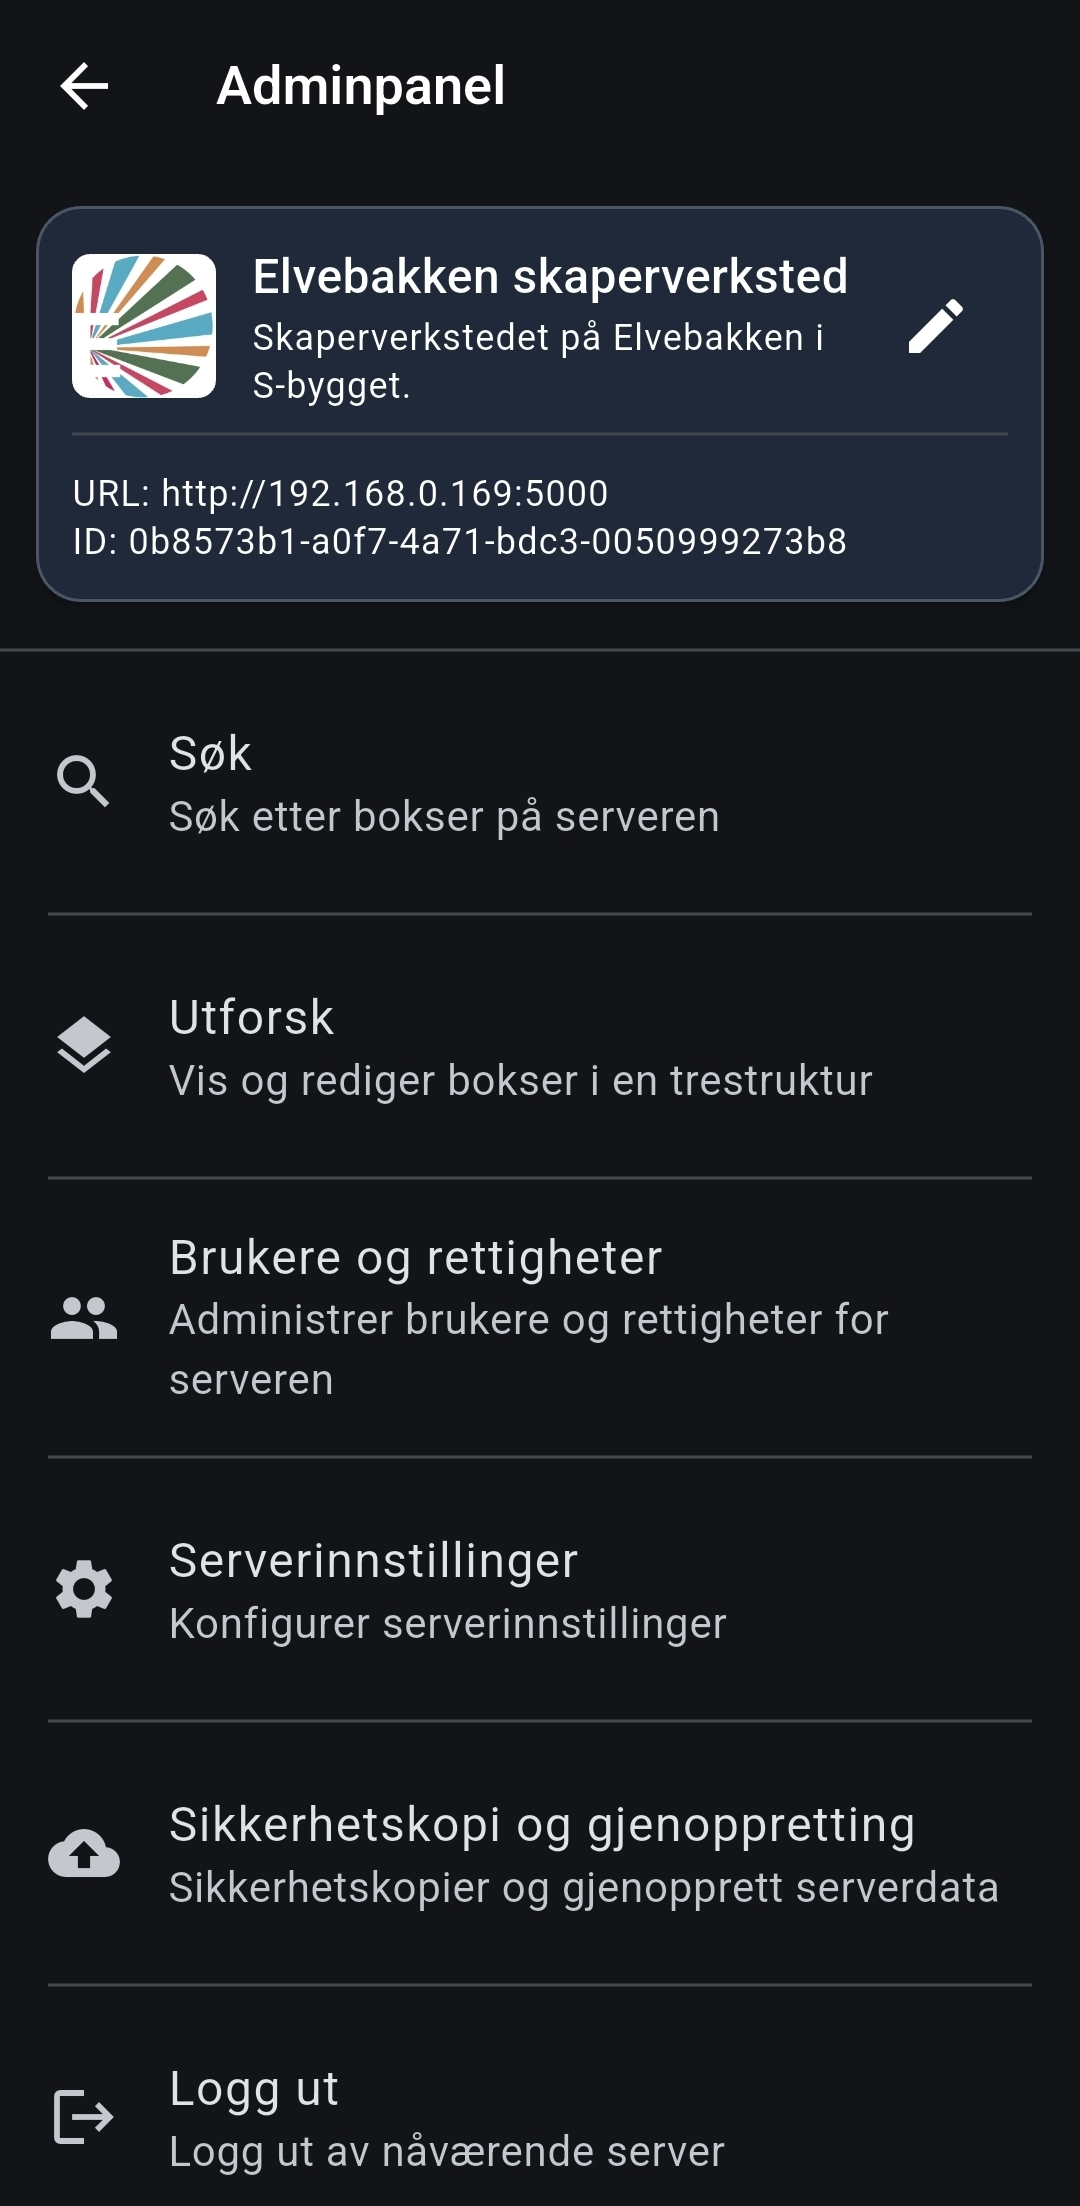
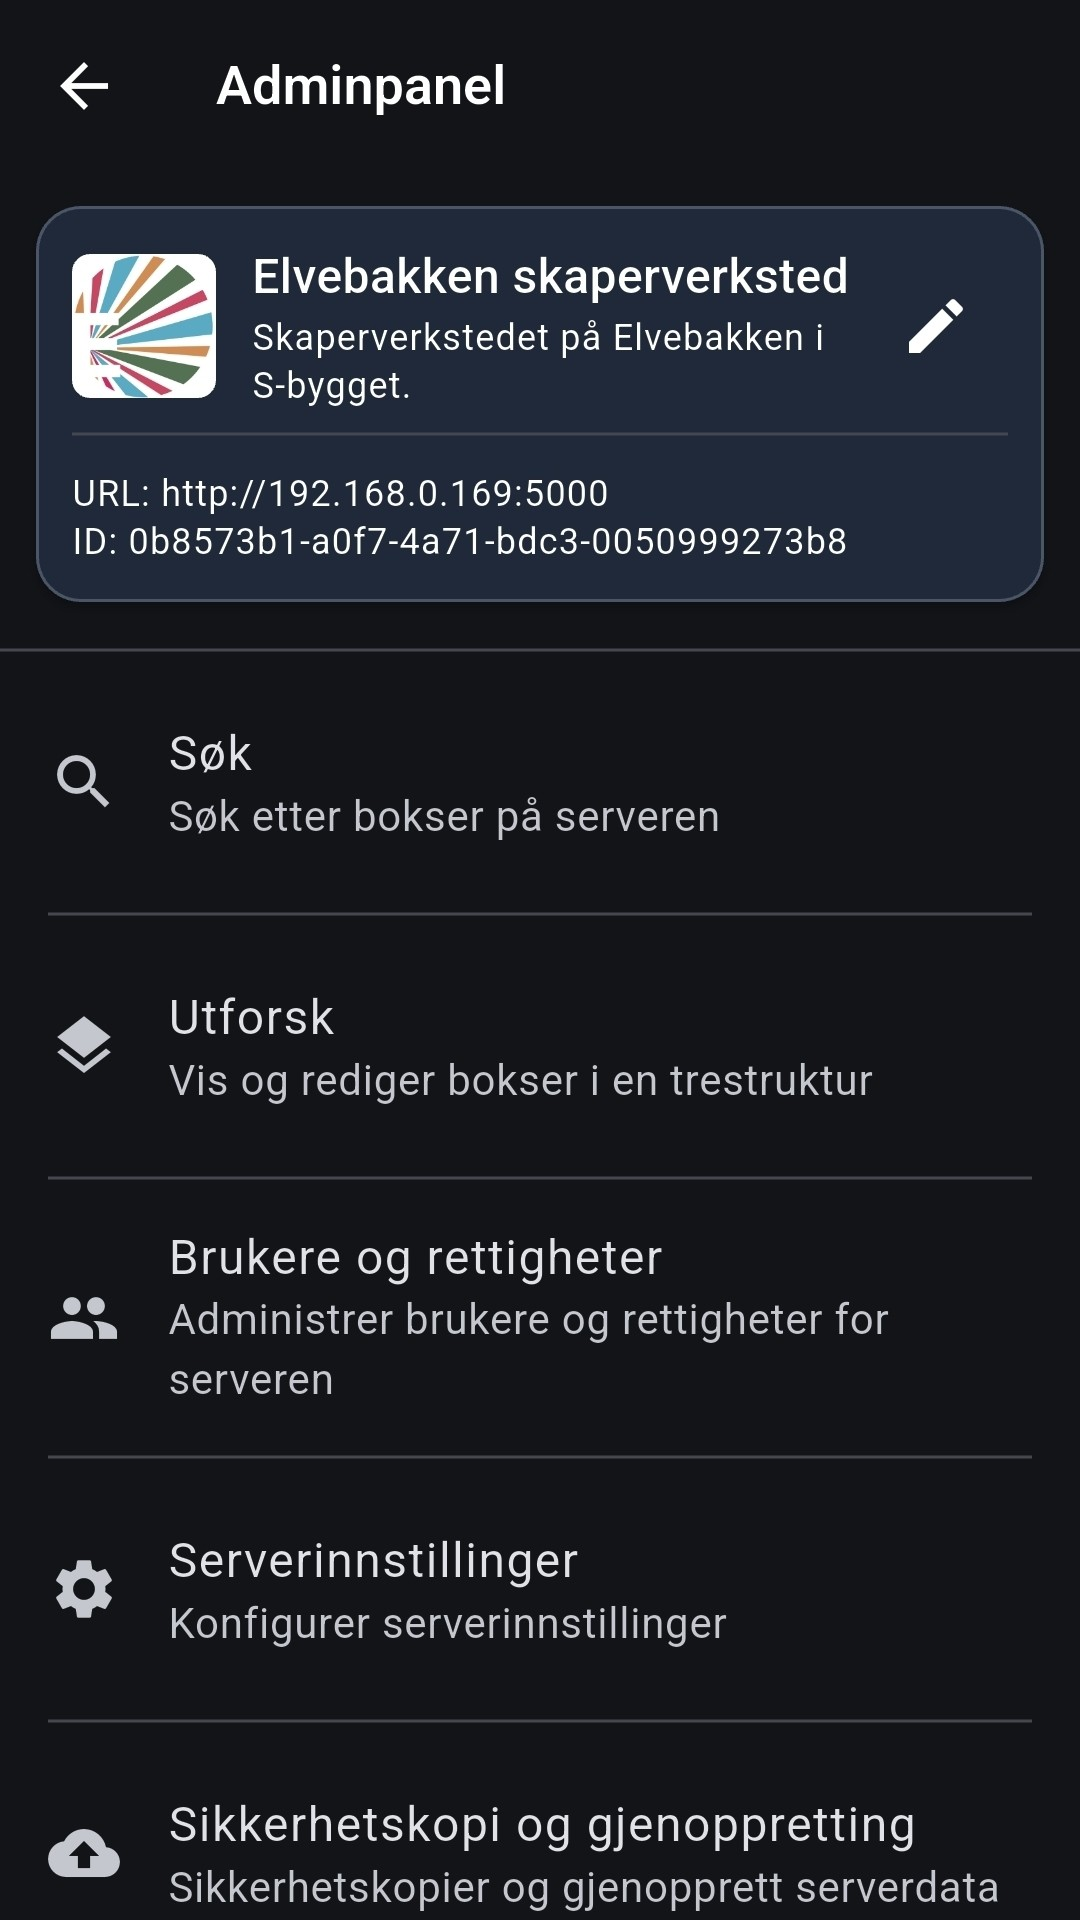
La til funksjoner del

diff --git a/index.html b/index.html
@@ -109,6 +109,88 @@
                 </p>
             </article>
         </section>
+
+        <section class="features" aria-labelledby="features-heading">
+            <div class="features-head">
+                <p class="eyebrow">FUNKSJONER</p>
+                <h2 id="features-heading" class="section-title">Se hva Skapersøk kan gjøre for deg</h2>
+            </div>
+
+            <div class="features-grid">
+                <article class="feature-card">
+                    <div class="feature-copy">
+                        <h3>Enkel bruk 🚀</h3>
+                        <p>Brukere trenger kunn å skanne en QR-kode for å komme i gang.
+                            <br><b>Ingen innstalasjoner, ingen registrering, ingen bogus.</b>
+                        </p>
+                    </div>
+                    <figure class="feature-media" aria-label="Plassholder for bilde av onboarding">
+                        <img src="assets/imgs/demo/qr_demo.gif" alt="QR-kode demo">
+                    </figure>
+                </article>
+
+                <article class="feature-card">
+                    <div class="feature-copy">
+                        <h3>Enkel redigering ✏</h3>
+                        <p>Rediger inventaret ditt enkelt direkte i mobil- eller webappen. <b>Ingen uforståelige menyer
+                                eller
+                                endeløse regneark.</b>
+                        </p>
+                    </div>
+                    <figure class="feature-media" aria-label="Plassholder for bilde av onboarding">
+                        <img src="assets/imgs/demo/edit_example.jpg" alt="Redigering demo">
+                    </figure>
+                </article>
+
+                <article class="feature-card">
+                    <div class="feature-copy">
+                        <h3>Avansert adminkontroll 🛠</h3>
+                        <p>Som administrator får du alle verktøyene du trenger for å administrere brukere,
+                            sikkerhetsinnstillinger og systemkonfigurasjon.
+                        </p>
+                    </div>
+                    <figure class="feature-media" aria-label="Plassholder for bilde av lokasjon og spor">
+                        <img src="assets/imgs/demo/admin_panel_example.jpg" alt="Adminpanel">
+                    </figure>
+                </article>
+
+                <article class="feature-card feature-card-wide">
+                    <div class="feature-copy">
+                        <h3>Skapersøk er der du vil 🫵✨</h3>
+                        <p>Skapersøk serveren kan enten kjøre:</p>
+                        <ul class="feature-list">
+                            <li>
+                                <span class="feature-li-icon feature-li-icon-local" aria-hidden="true">
+                                    <svg viewBox="0 0 24 24" focusable="false">
+                                        <path fill="currentColor"
+                                            d="M3 11.2 12 4l9 7.2V21a1 1 0 0 1-1 1h-5v-6h-6v6H4a1 1 0 0 1-1-1v-9.8Z" />
+                                    </svg>
+                                </span>
+                                <span><b>Lokalt</b>, slik at alle på ditt nettverk får tilgang</span>
+                            </li>
+                            <li>
+                                <span class="feature-li-icon feature-li-icon-private" aria-hidden="true">
+                                    <svg viewBox="0 0 24 24" focusable="false">
+                                        <path fill="currentColor"
+                                            d="M12 2a5 5 0 0 0-5 5v3H6a2 2 0 0 0-2 2v8a2 2 0 0 0 2 2h12a2 2 0 0 0 2-2v-8a2 2 0 0 0-2-2h-1V7a5 5 0 0 0-5-5Zm-3 8V7a3 3 0 0 1 6 0v3H9Z" />
+                                    </svg>
+                                </span>
+                                <span><b>Privat</b> på din enhet, ingen data forlater enheten din</span>
+                            </li>
+                            <li>
+                                <span class="feature-li-icon feature-li-icon-cloud" aria-hidden="true">
+                                    <svg viewBox="0 0 24 24" focusable="false">
+                                        <path fill="currentColor"
+                                            d="M12 2a10 10 0 1 0 10 10A10 10 0 0 0 12 2Zm7.92 9h-3.08a15.6 15.6 0 0 0-1-4 8.04 8.04 0 0 1 4.08 4ZM12 4.04c.93 1.1 1.66 2.9 1.92 4.96h-3.84c.26-2.06.99-3.86 1.92-4.96ZM4.08 13h3.08a15.6 15.6 0 0 0 1 4 8.04 8.04 0 0 1-4.08-4Zm3.08-2H4.08a8.04 8.04 0 0 1 4.08-4 15.6 15.6 0 0 0-1 4Zm2.92 0c.3-2.6 1.2-4.78 2.44-5.85C13.76 6.22 14.66 8.4 14.96 11h-4.88Zm4.88 2c-.3 2.6-1.2 4.78-2.44 5.85-1.24-1.07-2.14-3.25-2.44-5.85h4.88Zm.88 4a15.6 15.6 0 0 0 1-4h3.08a8.04 8.04 0 0 1-4.08 4Z" />
+                                    </svg>
+                                </span>
+                                <span><b>I skyen</b>, få tilgang til dataene dine overalt</span>
+                            </li>
+                        </ul>
+                    </div>
+                </article>
+            </div>
+        </section>
     </main>
 
     <footer class="site-footer">

diff --git a/assets/css/sections.css b/assets/css/sections.css
@@ -359,6 +359,155 @@
     font-size: 1.05rem;
 }
 
+.features {
+    margin-top: 34px;
+}
+
+.features-head {
+    margin-bottom: 14px;
+}
+
+.features-head .section-title {
+    margin-bottom: 8px;
+}
+
+.features-lead {
+    margin: 0;
+    color: color-mix(in srgb, var(--text), var(--text-soft) 30%);
+}
+
+.features-grid {
+    display: grid;
+    grid-template-columns: repeat(3, minmax(0, 1fr));
+    gap: 14px;
+}
+
+.feature-card-wide {
+    grid-column: 1 / -1;
+}
+
+.feature-card {
+    border: 1px solid color-mix(in srgb, var(--line), transparent 8%);
+    border-radius: 16px;
+    background: linear-gradient(180deg, color-mix(in srgb, var(--surface), #fff 2%) 0%, color-mix(in srgb, var(--surface-strong), #fff 1%) 100%);
+    padding: 16px;
+    display: grid;
+    gap: 12px;
+}
+
+.feature-copy h3 {
+    margin: 0 0 6px;
+    font-size: 1.05rem;
+}
+
+.feature-copy p {
+    margin: 0;
+    color: color-mix(in srgb, var(--text), var(--text-soft) 38%);
+    line-height: 1.65;
+}
+
+.feature-list {
+    list-style: none;
+    margin: 10px 0 0;
+    padding: 0;
+    display: grid;
+    gap: 10px;
+}
+
+.feature-list li {
+    display: grid;
+    grid-template-columns: 28px minmax(0, 1fr);
+    gap: 10px;
+    align-items: start;
+    color: color-mix(in srgb, var(--text), var(--text-soft) 30%);
+    line-height: 1.5;
+}
+
+.feature-li-icon {
+    width: 28px;
+    height: 28px;
+    border-radius: 999px;
+    border: 1px solid color-mix(in srgb, var(--line), var(--accent-soft) 32%);
+    background: color-mix(in srgb, var(--surface-strong), var(--accent) 15%);
+    color: color-mix(in srgb, var(--accent-soft), #fff 28%);
+    display: inline-flex;
+    align-items: center;
+    justify-content: center;
+}
+
+.feature-li-icon svg {
+    width: 15px;
+    height: 15px;
+    display: block;
+}
+
+.feature-li-icon-local {
+    border-color: color-mix(in srgb, #39d98a, var(--line) 55%);
+    background: color-mix(in srgb, #39d98a, var(--surface-strong) 82%);
+    color: #9df4c7;
+}
+
+.feature-li-icon-private {
+    border-color: color-mix(in srgb, #f2c14e, var(--line) 58%);
+    background: color-mix(in srgb, #f2c14e, var(--surface-strong) 84%);
+    color: #ffe39b;
+}
+
+.feature-li-icon-cloud {
+    border-color: color-mix(in srgb, #6ba7ff, var(--line) 52%);
+    background: color-mix(in srgb, #6ba7ff, var(--surface-strong) 80%);
+    color: #d1e5ff;
+}
+
+.feature-media {
+    margin: 0;
+    border: 1px dashed color-mix(in srgb, var(--line), var(--accent-soft) 22%);
+    border-radius: 12px;
+    min-height: 170px;
+    background: color-mix(in srgb, var(--surface), #fff 2%);
+    display: grid;
+    place-items: center;
+    text-align: center;
+    padding: 12px;
+    overflow: hidden;
+}
+
+.feature-media img {
+    display: block;
+    width: 100%;
+    height: 100%;
+    max-width: 100%;
+    object-fit: contain;
+}
+
+.feature-media span {
+    font-size: 0.8rem;
+    letter-spacing: 0.05em;
+    color: var(--text-soft);
+    text-transform: uppercase;
+    font-family: "JetBrains Mono", monospace;
+}
+
+@media (max-width: 980px) {
+    .features-grid {
+        grid-template-columns: repeat(2, minmax(0, 1fr));
+    }
+}
+
+@media (max-width: 640px) {
+    .features {
+        margin-top: 26px;
+    }
+
+    .features-grid {
+        grid-template-columns: 1fr;
+    }
+
+    .feature-media {
+        min-height: 150px;
+    }
+}
+
 .site-footer {
     border-top: 1px solid var(--line);
     padding: 20px 0 30px;

diff --git a/privacy/index.html b/privacy/index.html
@@ -4,9 +4,9 @@
 <head>
     <meta charset="UTF-8" />
     <meta name="viewport" content="width=device-width, initial-scale=1.0" />
-    <meta name="description" content="Privacy Policy for Nests by Trym & Anders." />
+    <meta name="description" content="Privacy Policy for Skapersøk by Trym & Anders." />
     <meta name="theme-color" content="#0f1216" />
-    <title>Privacy Policy · Nests</title>
+    <title>Privacy Policy · Skapersøk</title>
     <link rel="stylesheet" href="../assets/css/style.css" />
     <link rel="stylesheet" href="privacy.css" />
     <link rel="preconnect" href="https://fonts.googleapis.com">

diff --git a/privacy/privacypolicy.md b/privacy/privacypolicy.md
@@ -1,6 +1,6 @@
 **Privacy Policy**
 
-This privacy policy applies to the Nests app (hereby referred to as "Application") for mobile devices that was created by Trym & Anders (hereby referred to as "Service Provider") as an Open Source service. This service is intended for use "AS IS".
+This privacy policy applies to the Skapersøk. app (hereby referred to as "Application") for mobile devices that was created by Trym & Anders (hereby referred to as "Service Provider") as an Open Source service. This service is intended for use "AS IS".
 
 **Information Collection and Use**
 
